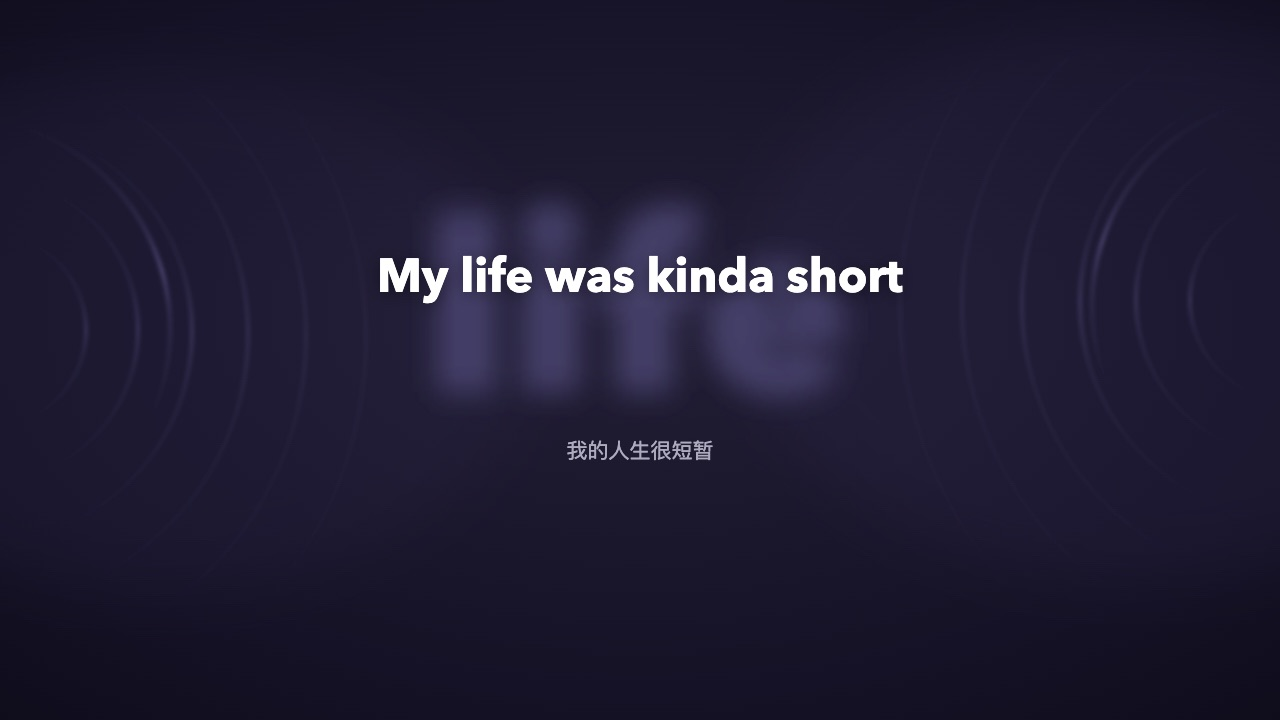
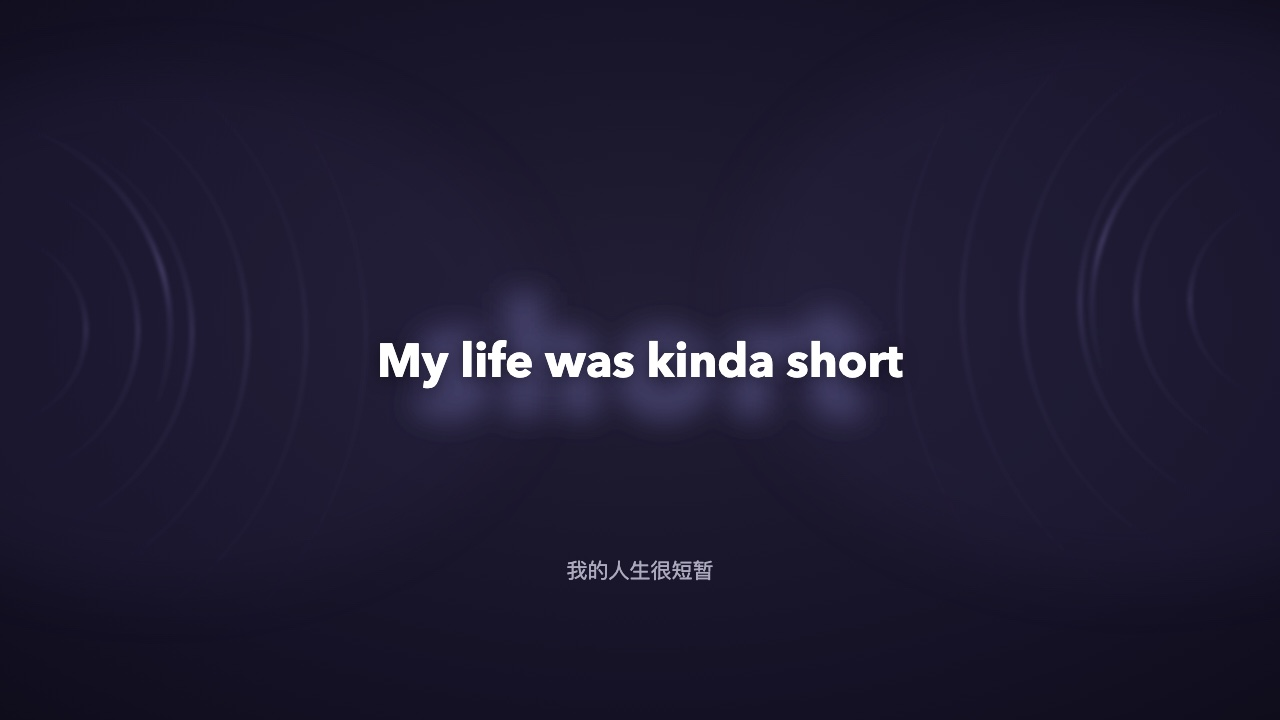
1.5.0: watermark picks the line's heaviest word (sonnet hero scoring)
Port the host sonnet typography engine's hero-word logic (the one the
official k3panel mod tunes) to the watermark: split the line into words
via Intl.Segmenter, score each content word with
min(chars,8)*14 + min(2.5s, sungFor)*18, and promote the heaviest one.
Ties are broken by a stable line hash; a one-character winner borrows
its heavier neighbour so the watermark stays a contiguous >=2-char run.
Credit lines show the value after the last colon (whole when <=8 chars,
else the heaviest word). Preview updated.

Changed region(s): [[0.2812, 0.275, 0.7188, 0.5806], [0.4375, 0.7639, 0.5625, 0.825], [0.4375, 0.6111, 0.5625, 0.6417]]

diff --git a/README.md b/README.md
@@ -15,7 +15,7 @@
 - **封面取色**：自动提取当前歌曲封面的主色（24×24 降采样加权提取，本机完成，不联网），背景暗色水波、波纹、歌词颜色全部由它派生；切歌自动换色。无封面 / 封面不可读时回退主题强调色。
 - **左右双声波**：两组同心圆波纹分居屏幕左右边缘（圆心探出屏外），像喇叭声波一样逐环放大、缩小，亮度和扩张的波峰由内向外推进，并有几道亮弧缓缓旋转；canvas 加法混合绘制，暂停时依然流动（参考原效果）。
 - **居中大歌词**：当前句歌词与水印共用同一中心点，居中放大（约为页高的 8.5%，可调），间奏期无歌词时显示「歌名 - 歌手」。**逐字入场动效**：中心字先由模糊变清晰浮现，两侧字同时从左右向中心靠拢汇入、逐字错峰，全部由模糊收敛到清晰；外语单词整体滑入不拆分。
-- **关键字水印**：随机取当前句中 **2–4 个连贯字**（中文/日文按字、外语取一个单词）——不是固定首字，每句随机、位置长度随句变化但句内保持稳定——以超大深色字号浮在歌词背后，与歌词同点心，换行时淡入，字数多时自动缩小。
+- **关键字水印**：取当前句里**最有分量的那个词**——先把整句按词切分（`Intl.Segmenter`，与宿主内置 sonnet 排版同一套分词回退），再按「字数 × 14 + 演唱时长 × 18」打分（字越多、唱得越久权重越高，正是官方「某几个字放大」的选取逻辑），权重最高者上屏；同分词由句哈希稳定抉择，句内不变、句间不同。单字胜出时向权重更高的邻词借字，保证水印始终是 ≥2 字的连贯片段；署名行仍显示最后一个冒号后的内容（≤8 字完整显示，更长取最重的词）。以超大深色字号浮在歌词背后，与歌词同点心，换行时淡入，词长时自动缩小。
 - **翻译独立成块**：外语歌的翻译在屏幕下方单独显示（水平居中，垂直位置取「背景大字底缘与屏幕底部的中点」，随水印大小自适应），不嵌入歌词列，当前句没有翻译时自动隐藏。
 - **主题联动**：字体栈、字重取自当前主题。
 - **间奏保持**：句间空行 / 歌词时钟间隙时保持上一句歌词，不会闪现歌名。
@@ -29,7 +29,7 @@
 | 波光配色 | 跟随封面主色（默认）/ 主题色 |
 | 波光亮度 | 波纹与光晕的整体强度（默认 1，可 0.3–2） |
 | 流动速度 | 波纹放大缩小、旋转的快慢（默认 1，可 0.2–3） |
-| 关键字水印 | 歌词背后的超大水印，随机 2–4 个连贯字（默认开） |
+| 关键字水印 | 歌词背后的超大水印，取当前句最有分量的词（默认开） |
 | 歌词字号 | 叠加在主题字号与用户歌词字号之上 |
 
 ## 安装
@@ -46,7 +46,7 @@
 
 - 通过公开注册表 `folium.registries.visualizers` 注册一个动画模式，`hostLayers: { background: false, subtitles: false }`——整个页面（背景 + 歌词）由模组自绘，宿主不再铺自己的背景层。
 - 背景 = 封面主色派生的径向暗色渐变（DOM）；双声波 = 单个 canvas，requestAnimationFrame 每帧绘制两组同心圆（半径逐环放大缩小的行波 + 由内向外推进的发光「声波脉冲」环，亮度沿竖直方向成带状渐变）+ 旋转亮弧（加法混合，DPR 上限 1.75，开销很低）；歌词 / 关键字水印 / 翻译 = DOM 文本，走主题字体。
-- 关键字水印的随机选取以整句文本做 FNV-1a 哈希播种，同一句稳定、不同句各异；先剔除标点空格再截取，保证连贯。
+- 关键字水印的选词与宿主内置 sonnet 排版引擎同源：`Intl.Segmenter` 按词切分（无该能力时回退到「拉丁整词 / 中日文逐字」），按 `min(字数,8)×14 + min(2.5s, 演唱时长)×18` 打分取最重者；宿主只给行级时间，词的演唱时长按其字数占比从行时长中分摊。同分词以整句 FNV-1a 哈希稳定抉择，同一句永远同一个词、不同句各异。
 - 主色提取与「黑胶唱片」模组同源：24×24 降采样、按饱和度 × 中间调加权，跨域污染时静默回退，按封面 URL 缓存。
 - 不声明任何权限；不碰宿主 DOM、不注入全局样式、不联网。
 
@@ -60,6 +60,7 @@
 
 ## 更新日志
 
+- **1.5.0**：关键字水印的选词逻辑重写——逆向了官方 k3panel 模组所调的内置 **sonnet** 排版引擎「每句歌词放大某几个字」的算法，并将其移植到水印：整句先用 `Intl.Segmenter` 按词切分，再按「min(字数,8)×14 + min(2.5s, 演唱时长)×18」给每个词打分，最重的词成为水印（例：「再度重相逢」→「相逢」，「把回忆拼好给你」→「回忆」）；同分词由句哈希稳定抉择，单字胜出时向更重的邻词借字保持 ≥2 字连贯。署名行 ≤8 字完整显示、更长取最重的词。预览图同步更新。
 - **1.4.4**：背景大字改为**黑色 × 封面主色叠加**的暗色调，并带**常驻柔焦模糊**（模糊半径随字号缩放，永远不呈现锐利边缘）；入场动画从更深的模糊收敛到该常驻模糊值，而不是收敛到全清晰。
 - **1.4.3**：①背景大字整体缩小到原来的 80%，下方的翻译随之自动上移；②署名行（作词：/作曲：/编曲：/Lyrics: 等）的大字不再随机截取，改为显示**最后一个冒号后的内容**——短名字（≤6 字）完整显示，较长的中文取 4 字连贯段、外文取一个完整单词。
 - **1.4.2**：居中改为**锚定视口**——运行时测量模组容器在屏幕上的实际矩形，把歌词、背景大字、翻译全部锚定到可视页面中心（而非容器的 50%）。宿主容器若有内边距、偏移或被宿主移动/缩放，文字层每 500ms 自动重新校正；容器与页面一致时行为不变。
